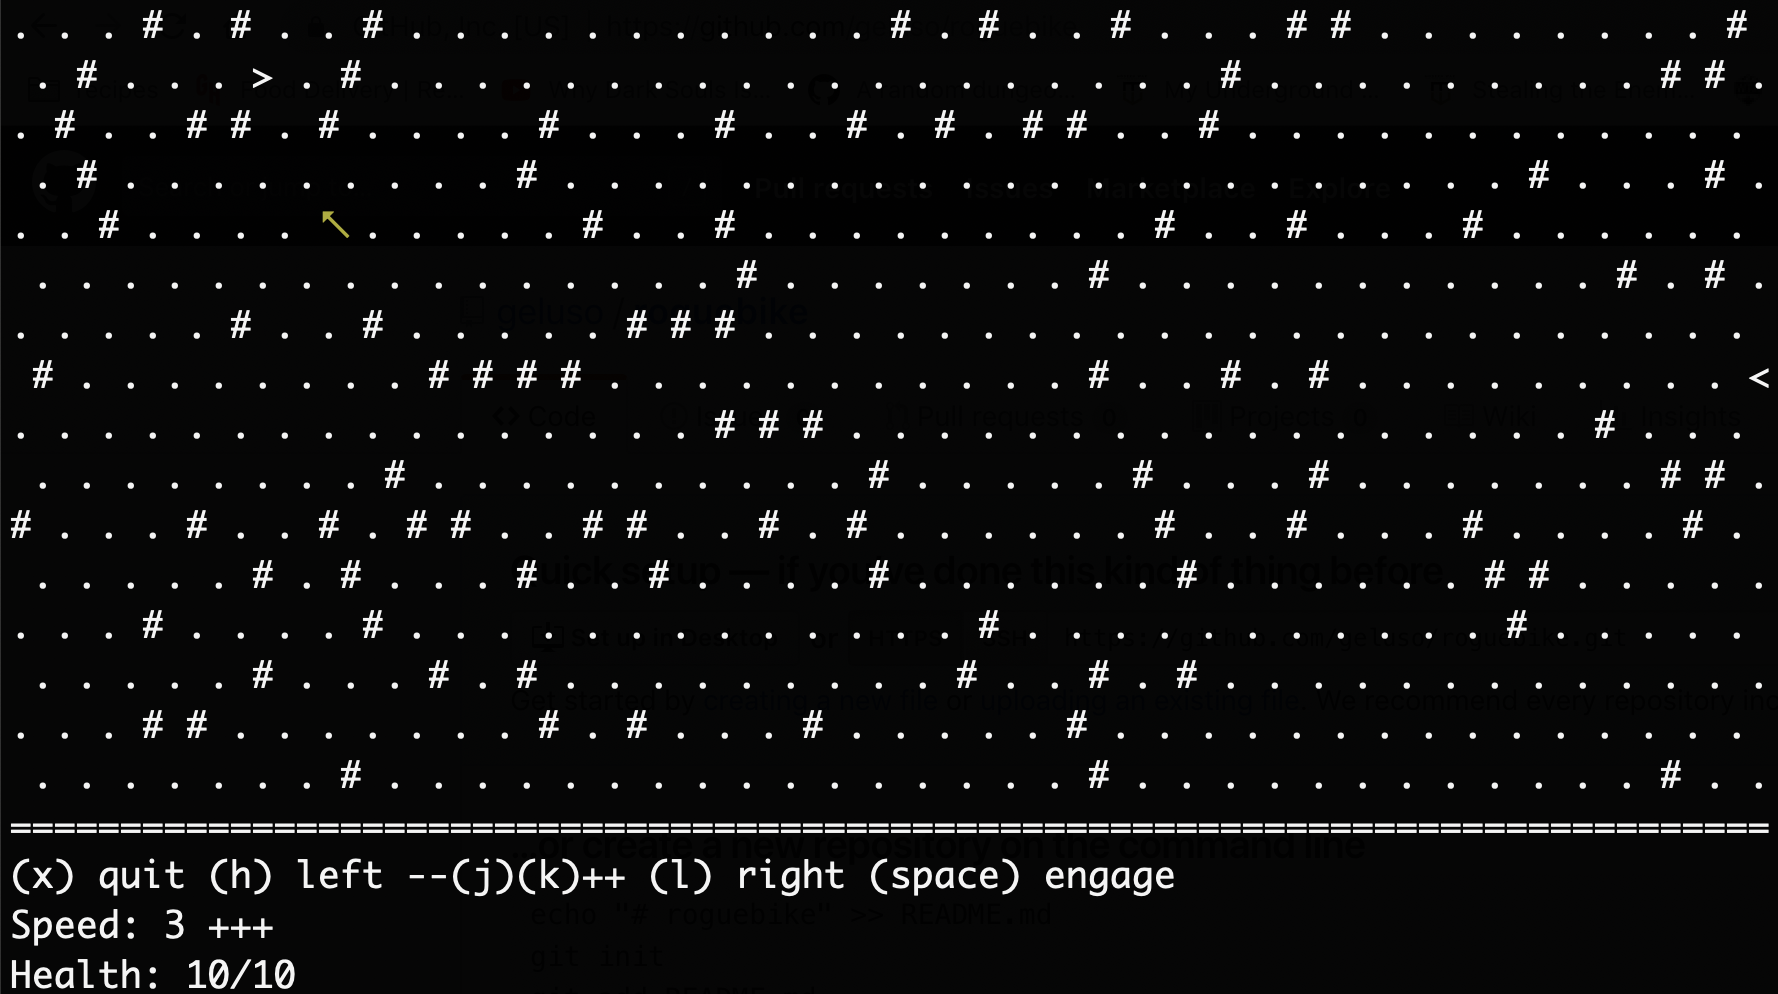
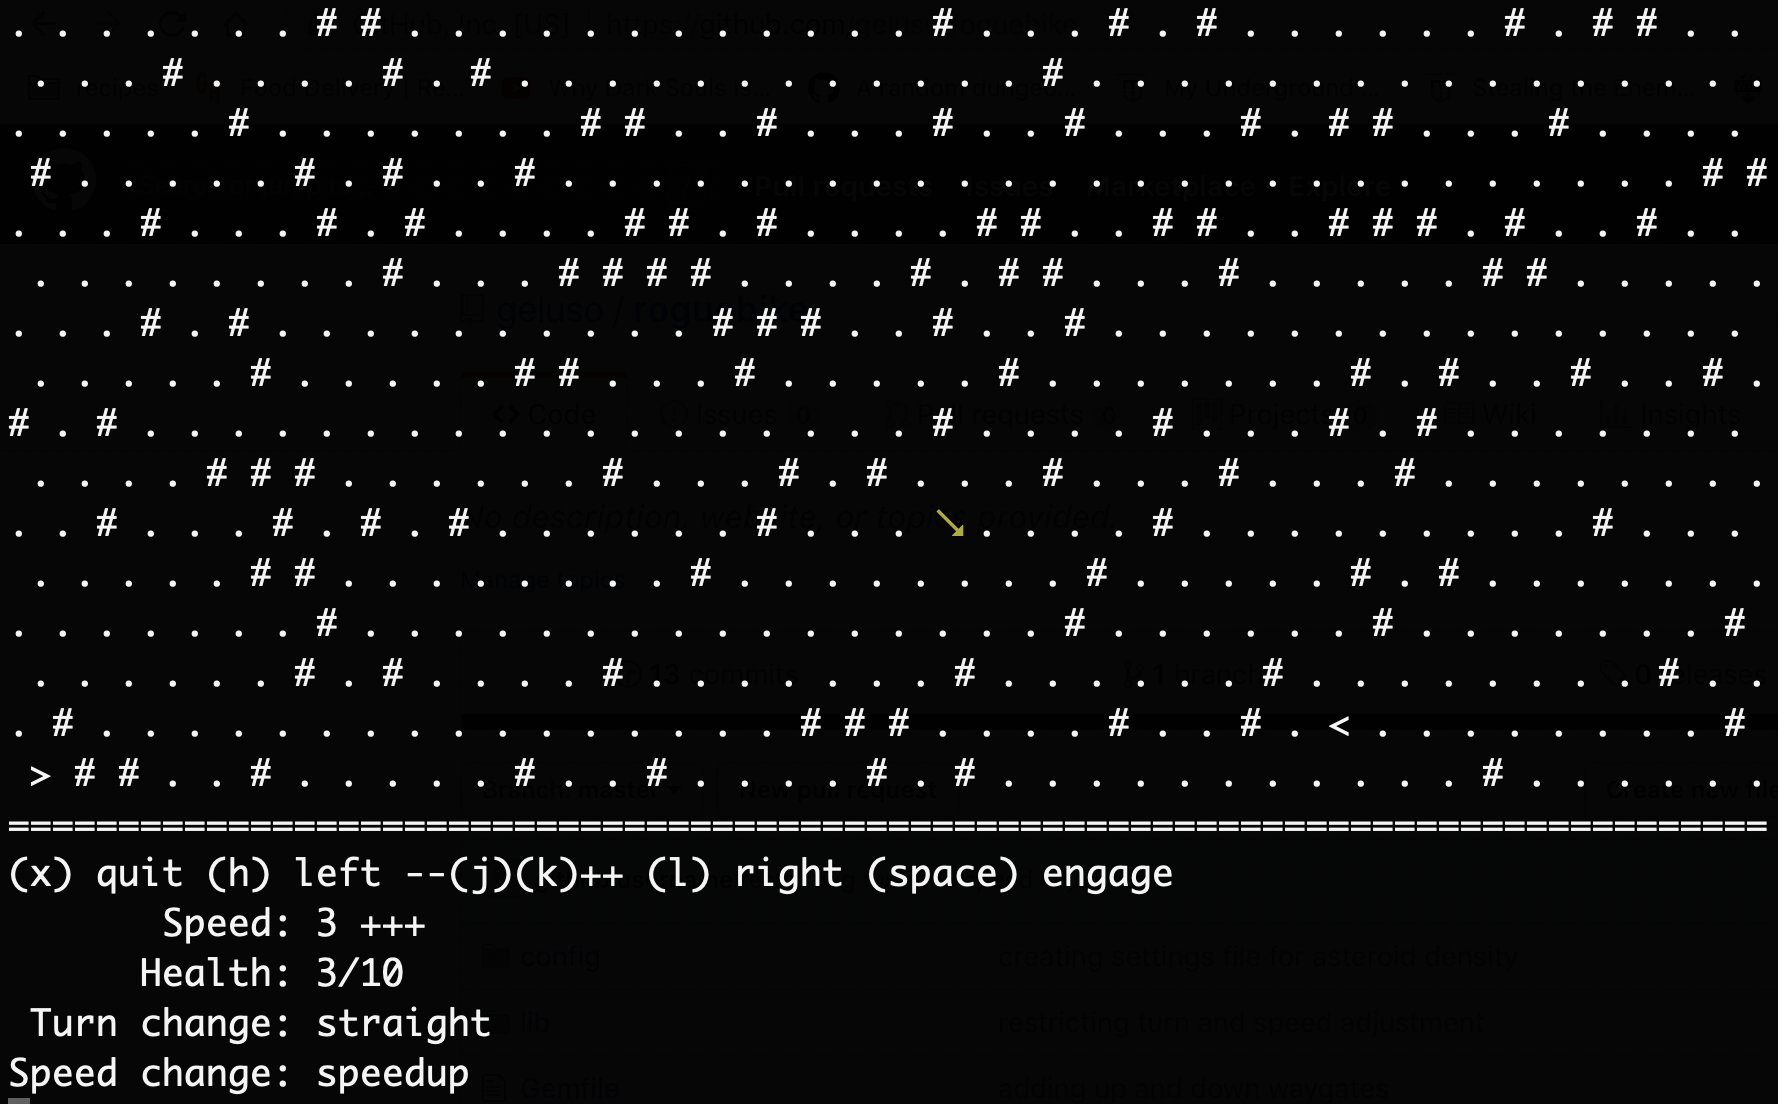
better screenshot

diff --git a/lib/game_loop.rb b/lib/game_loop.rb
@@ -24,10 +24,12 @@ class GameLoop
     
     speed = @space.player.speed
     speed_meter = "+" * speed
-    puts "Speed: #{speed} #{speed_meter}"
+    puts "       Speed: #{speed} #{speed_meter}"
 
     hp_meter = "#{@space.player.damage}/#{@space.player.hp}"
-    puts "Health: #{hp_meter}"
+    puts "      Health: #{hp_meter}"
+    puts " Turn change: #{@turn_state}"
+    puts "Speed change: #{@speed_state}"
 
     xx = @space.player.xx
     yy = @space.player.yy
